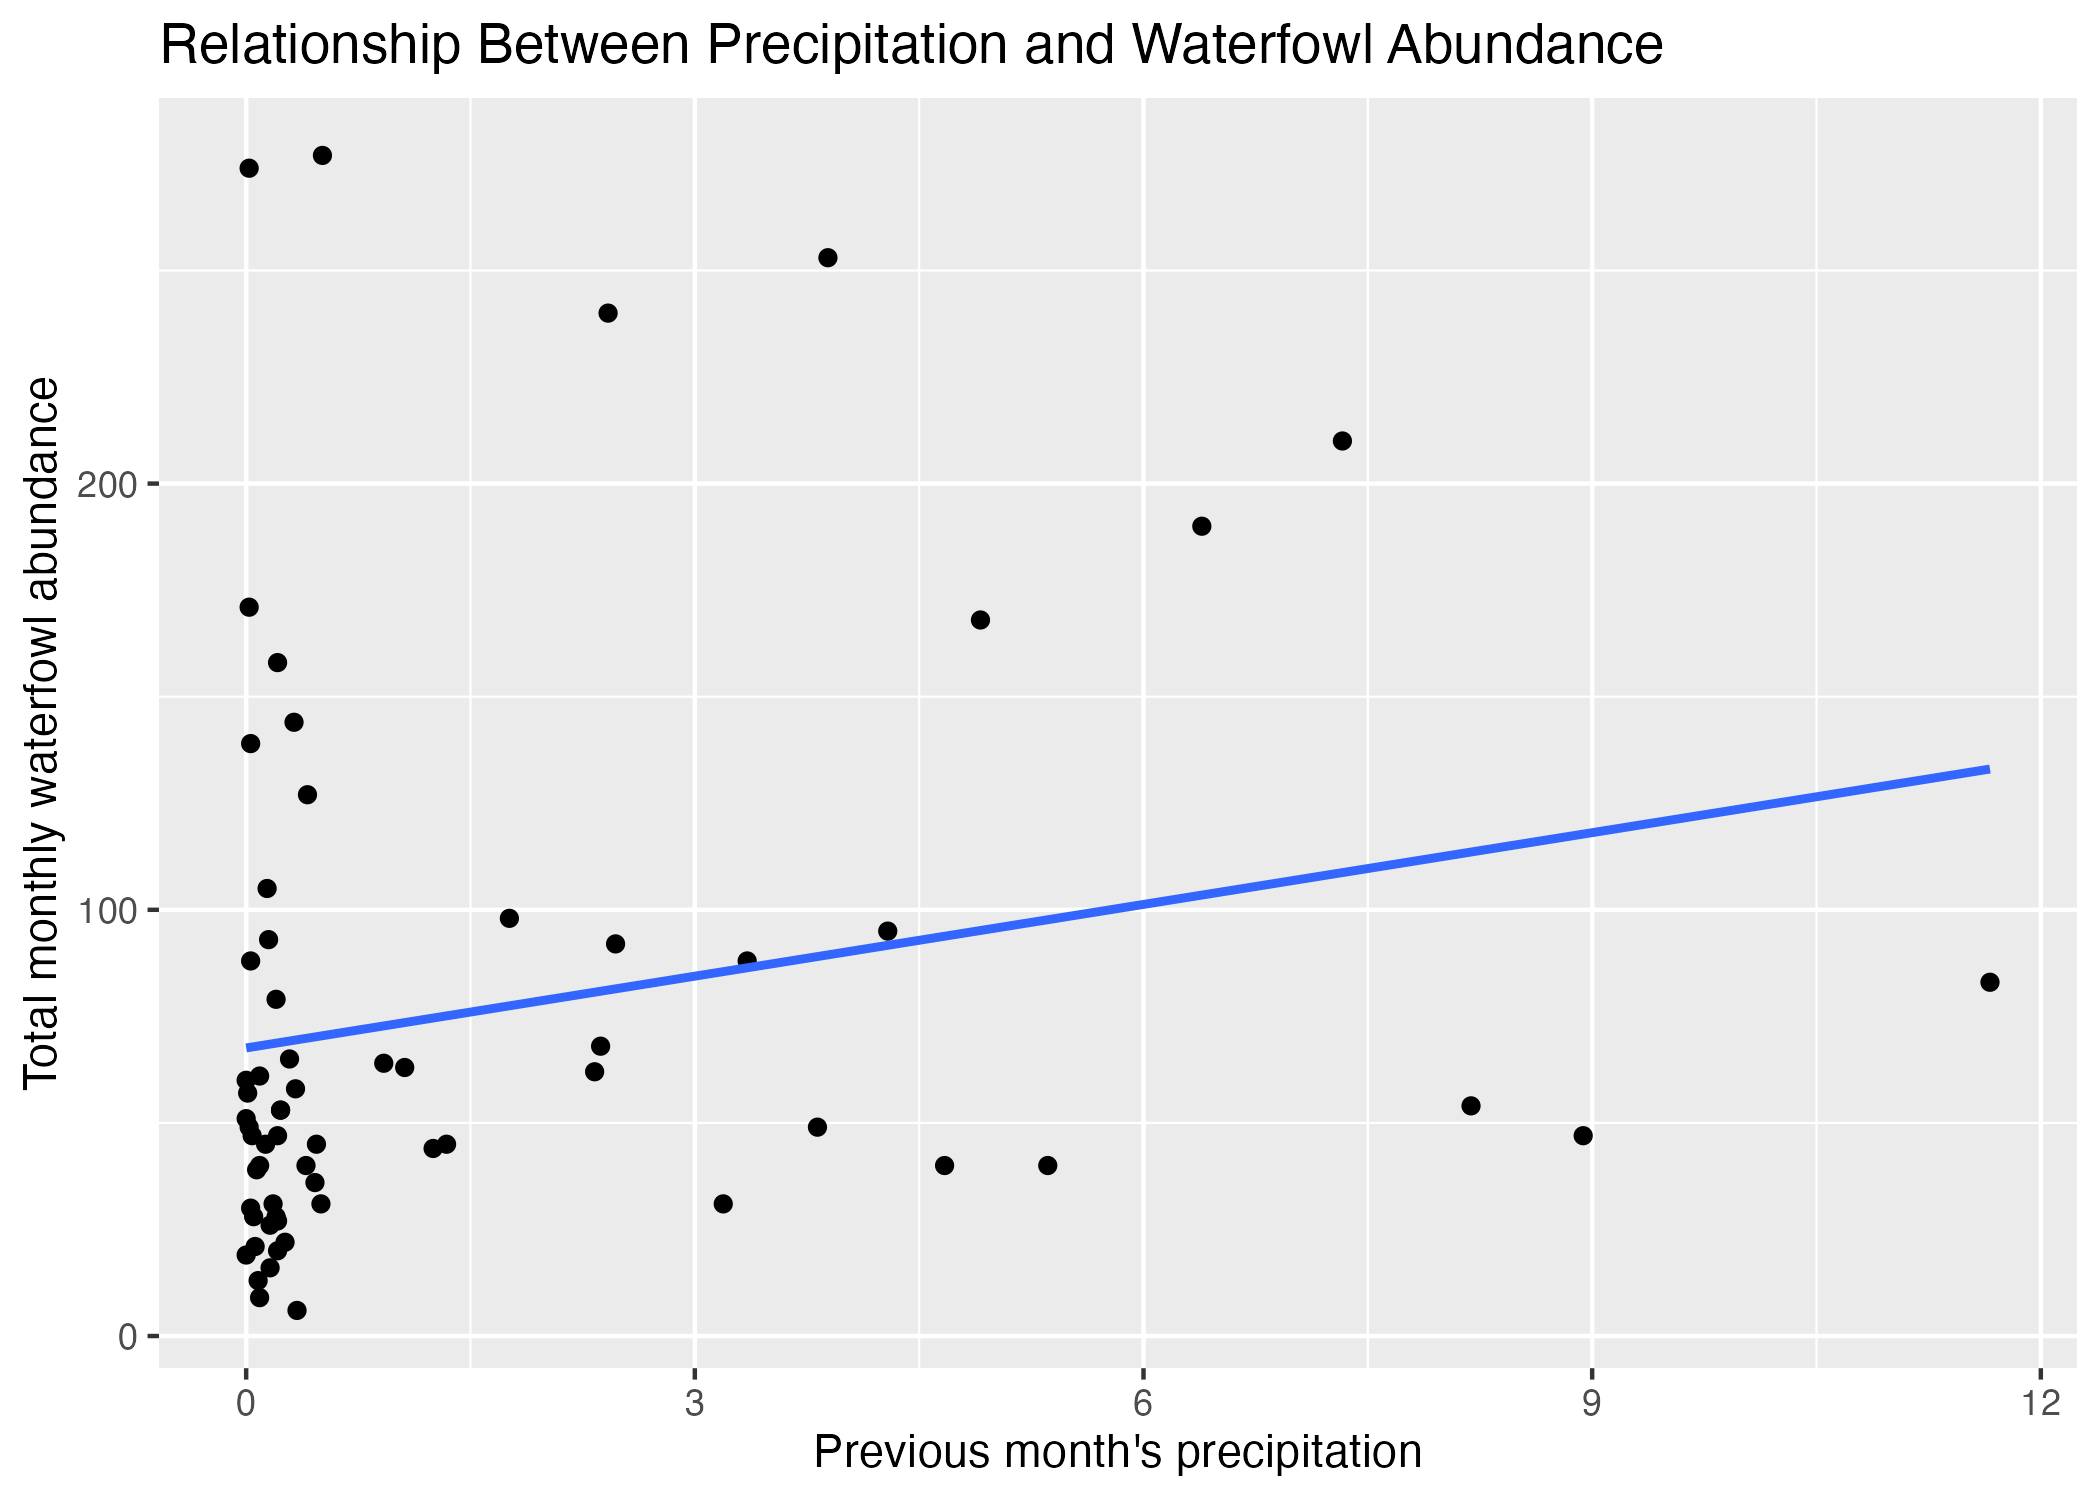
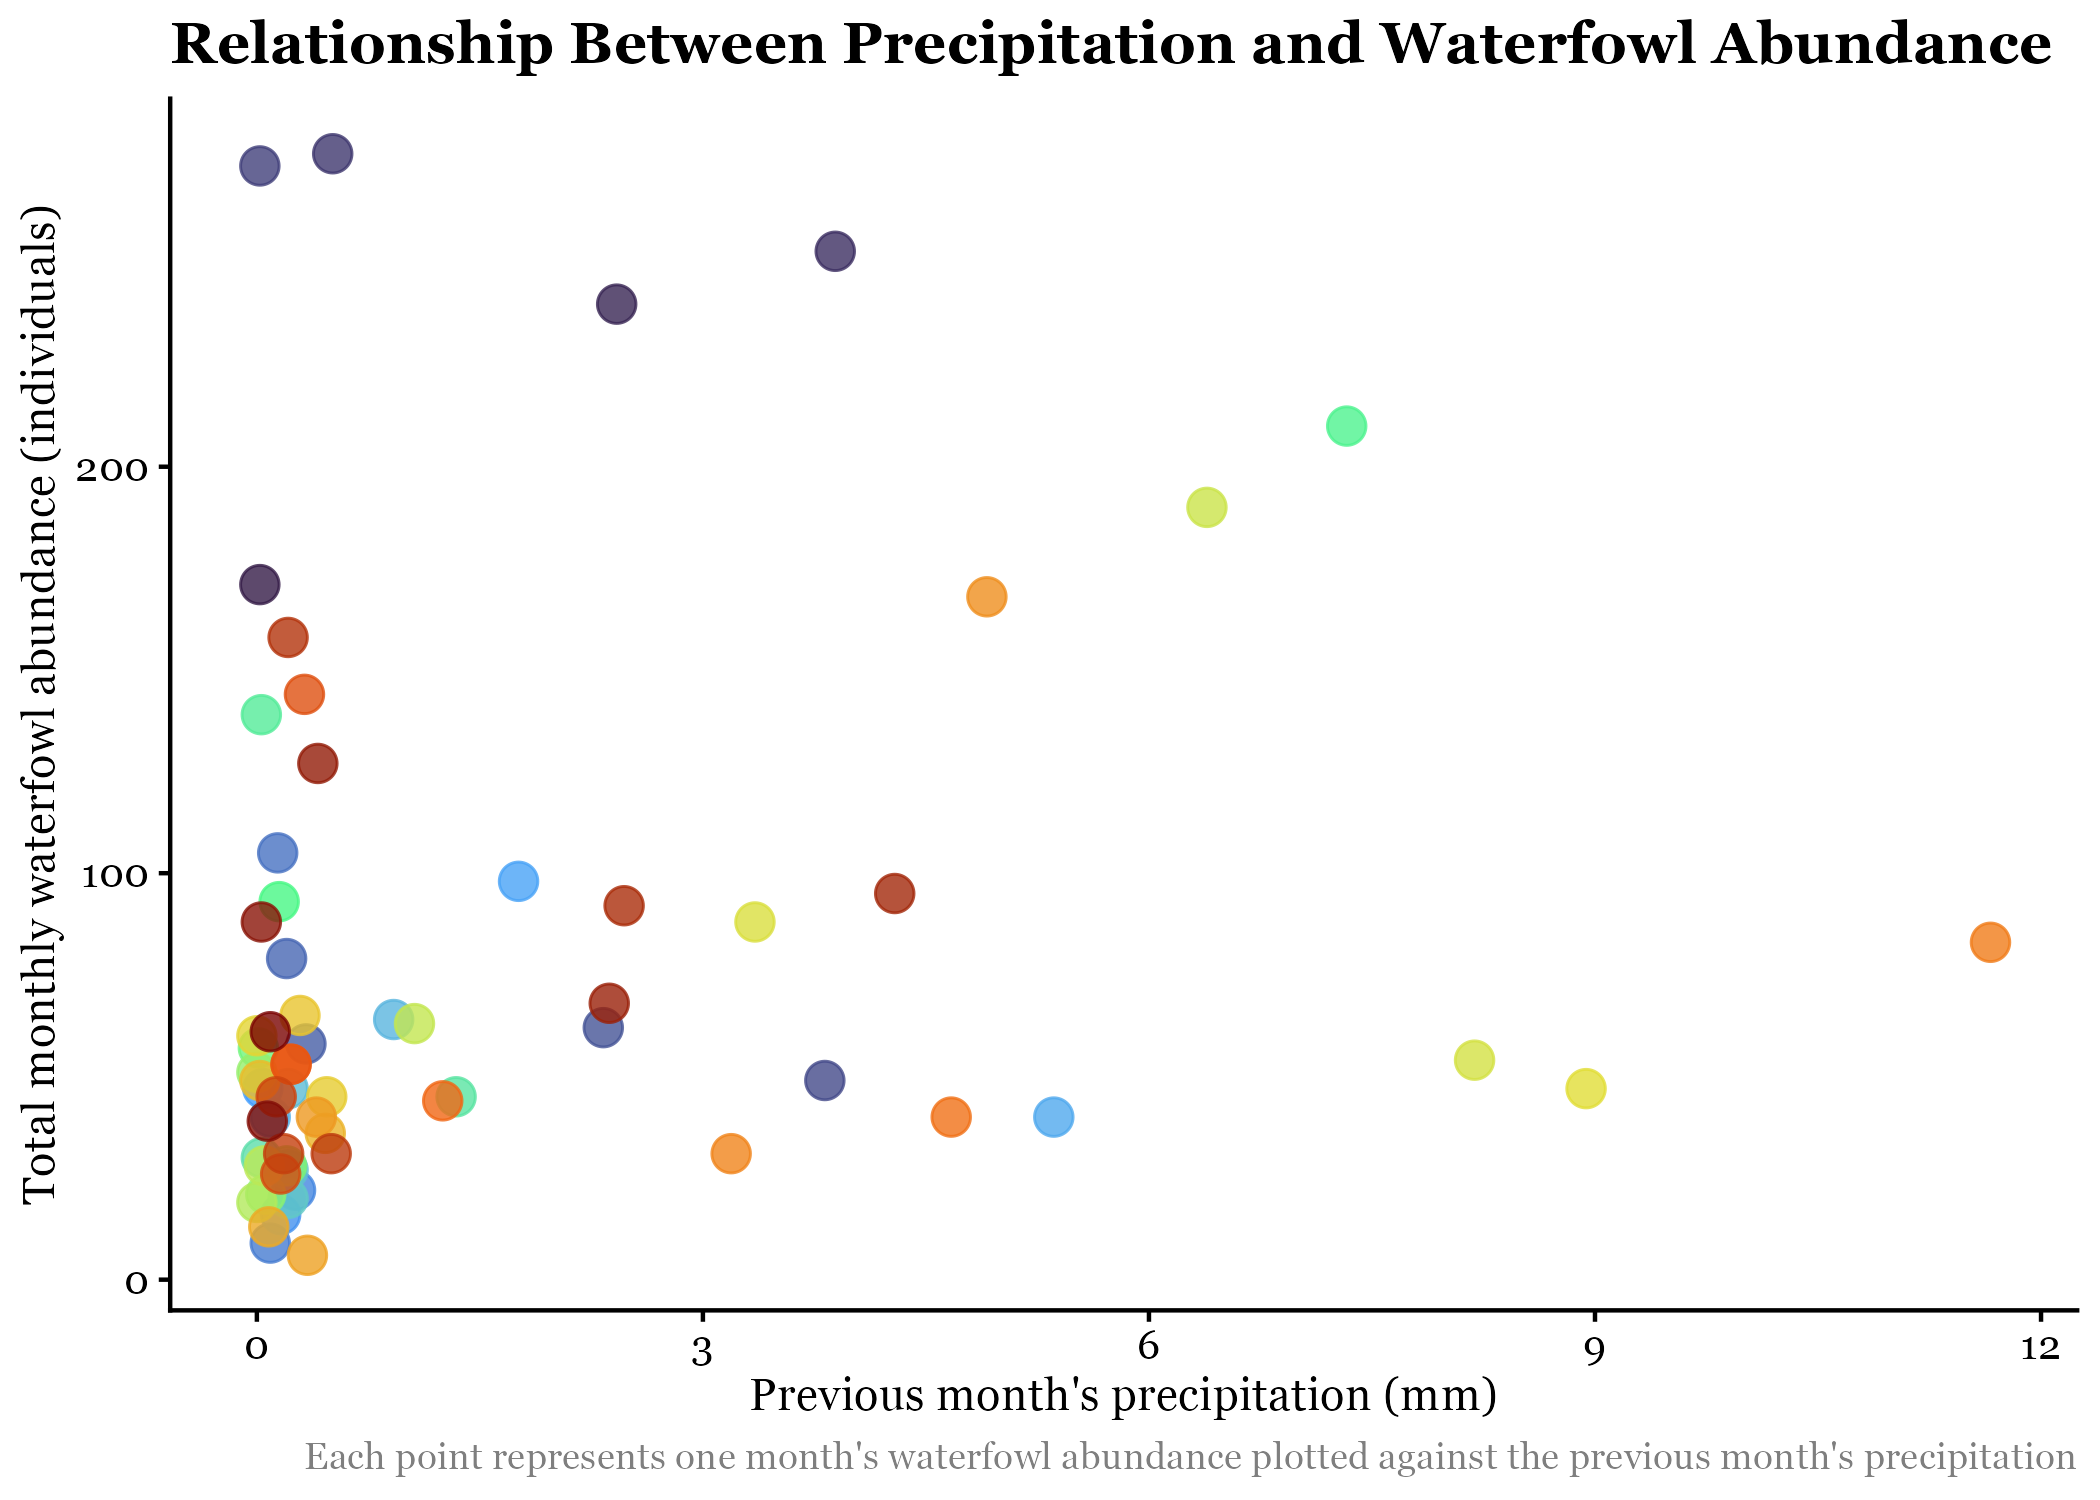
readme troubleshooting and creating fourth graph

diff --git a/README.md b/README.md
@@ -25,54 +25,77 @@ Note:
 
 ## Group members
 
-Sofia favela,
+Sofia Favela, Nina Cutner, Kelsey Hammond
+
 ## Group name (optional): 
+
 The Geese 
 
 ## Topic information and question
 
-**Topic: Bird Abundnace and Precipitation 
+**Topic: Bird abundance and precipitation patterns at North Campus Open Space (NCOS)
 
 **Question(s):**  
 
- What are the effects of precipitation of bird abundance? .
+- What are the effects of precipitation on bird abundance?
+- How does precipitation influence waterfowl abundance through time at NCOS?
+- Are there seasonal patterns between precipitation and waterfowl abundance?.
 
 **Response variable(s)**
 
-[delete this line and enter your bullet point list here]
+- Waterfowl abundance
+- Species abundance counts
+- Seasonal abundance trends
 
 ## Datasets
 
-bird_abundance_waterfowl
+- birds.csv
+- NOAA_daily_summaries.csv
 
 ## Figures
 
 **Potential figure 1:**
 
-[delete this line and enter your figure here]
+Monthly precipitation through time.
+
+![Monthly precipitation](figures/monthly-precipitation.png)
 
 **Potential figure 2:**
 
-[delete this line and enter your figure here; if you don't have one, delete the entire section]
+Monthly waterfowl abundance through time by species.
+
+![Waterfowl abundance](figures/waterfowl-abundance.png)
 
 **Potential figure 3:**
 
-[delete this line and enter your figure here; if you don't have one, delete the entire section]
+Relationship between previous month's precipitation and total monthly waterfowl abundance.
+
+![Precipitation abundance relationship](figures/precipitation-abundance.png)
 
 **Potential figure 4**
 
-[delete this line and enter your figure here; if you don't have one, delete the entire section]
+Seasonal comparing abundance and precipitation trends 
+![Seasonal abundance and precipitation trends](figures/seasonal-abundance-trends.png)
 
 ## Data cleaning/wrangling/summarizing plan
 
-[delete this line and enter your own text here]
+- Clean column names using `janitor::clean_names()`
+- Filter bird data to only include waterfowl observations
+- Remove repeat observations and incomplete records
+- Convert dates using `lubridate`
+- Aggregate bird abundance by month, season, and year
+- Join precipitation and bird data sets by date
+- Create summarized data sets for seasonal and long-term trend analysis
+- Create lagged precipitation variables to compare delayed ecological responses
 
 ## Project roles
 
 **Natural history/framing director:**
 
 Kselsey Hammond
+
 **Stats and visualization director**
+
 Nina Cutner
 
 **GitHub/code director**
@@ -83,11 +106,11 @@ Sofia Favela
 
 **Group members completing elective:**
 
-[delete this line and enter your own text here]
+Kelsey, Nina, and Sofia
 
 **Elective idea:**
 
-[delete this line and enter your own text here]
+Create a digital interpretive trail sign/informational pamphlet on Canva to display to potential trail visitors when the best time of year would be to see waterfowl.
 
 **Elective timeline (what you will have completed each week):**
 
@@ -99,11 +122,8 @@ Week 9: enter your own text here
 
 Week 10: enter your own text here
 
-<<<<<<< HEAD
 Finals week: Submit elective.    
-=======
-Finals week: enter your own text here
->>>>>>> 74d859b11db2e76638a917748ca127e22fa3ef43
+
 
 
 